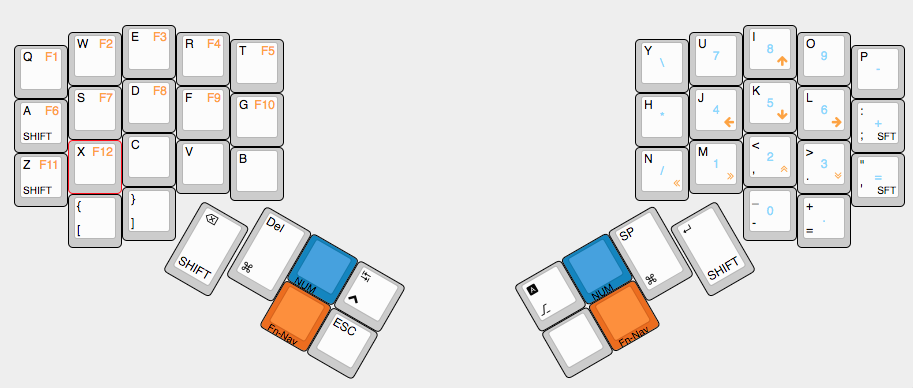
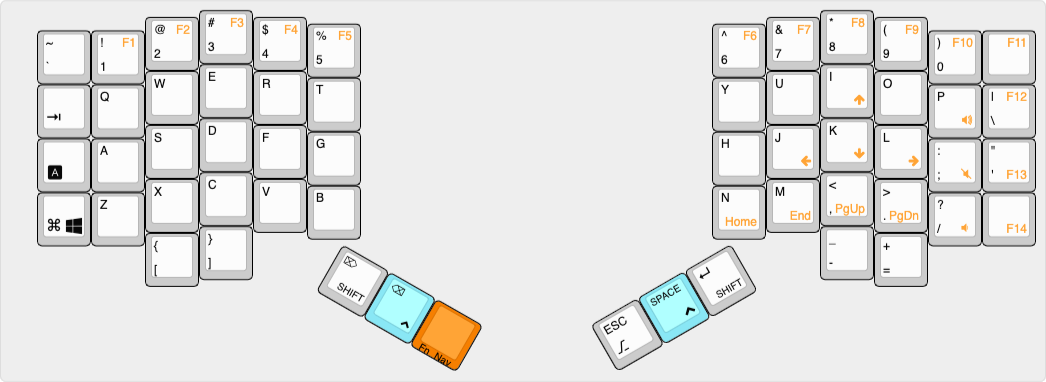
Update the guide to refer to my mini-thumb-dactyl keymap

Changed region(s): [[0.0, 0.0288, 0.46, 0.9791], [0.552, 0.0288, 1.0, 0.9791]]

diff --git a/guide/index.md b/guide/index.md
@@ -34,7 +34,7 @@ The origin Dactyl-ManuForm keyboard project is [tshort/dactyl-keyboard](https://
 
 Here listed some of the forks with changes:
 
-- https://github.com/aleung/dactyl-manuform-keyboard - My fork // TODO: describe what's changed
+- https://github.com/aleung/mini-thumb-dactyl-keyboard - My fork, 3 thumb keys
 - https://github.com/FSund/dactyl-manuform-keyboard
 - https://github.com/l4u/dactyl-manuform-mini-keyboard
 
@@ -51,10 +51,6 @@ There is guide on the GitHub project about how to do it. But to a non-developer 
 I found that the STL files generated by OpenSCAD are corrupted. But it can be repaired easily by auto repair function in [Netfabb Basic](https://github.com/3DprintFIT/netfabb-basic-download/releases).
 
 I printed it in PLA with 0.2mm layer height. Each part took about 8 hours to print.
-
-### Split Print
-
-The print .... // TODO
 
 ## Circuit Wiring
 
@@ -182,7 +178,7 @@ The keymap defines when a key or keys combination is pressed, what keycode is se
 QMK firmware has rich features for keymaps. You should read its document beginning from this one: https://docs.qmk.fm/#/keymap
 
 I use the default keymap of my mini-thumb-dactyl keyboard as example. 
-The code can be found on [GitHub](https://github.com/aleung/qmk_firmware/tree/my_dactyl_manuform/keyboards/handwired/dactyl_manuform/mine/keymaps/default). It's in two layers: base layer and a function keys and navigation keys layer. This picture shows partial of the keymaps (*Note: the picture doesn't reflect latest version in git repo*):
+The code can be found in [my qmk_firmware fork](https://github.com/aleung/qmk_firmware/tree/my_dactyl_manuform/keyboards/handwired/dactyl_manuform/mine/keymaps/default). It's in two layers: base layer and a function keys and navigation keys layer. This picture shows partial of the keymaps (*Note: the picture may not reflect latest version in git repo*):
 
 ![](keymap.png)
 
